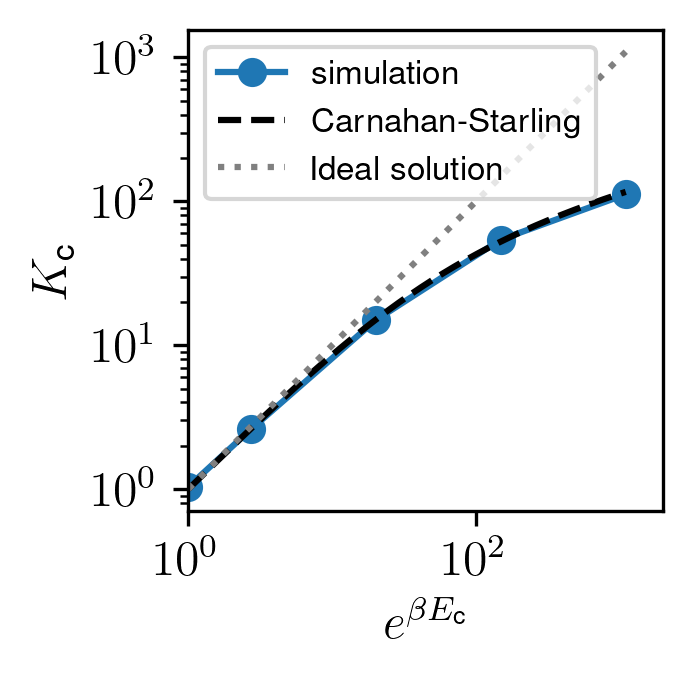
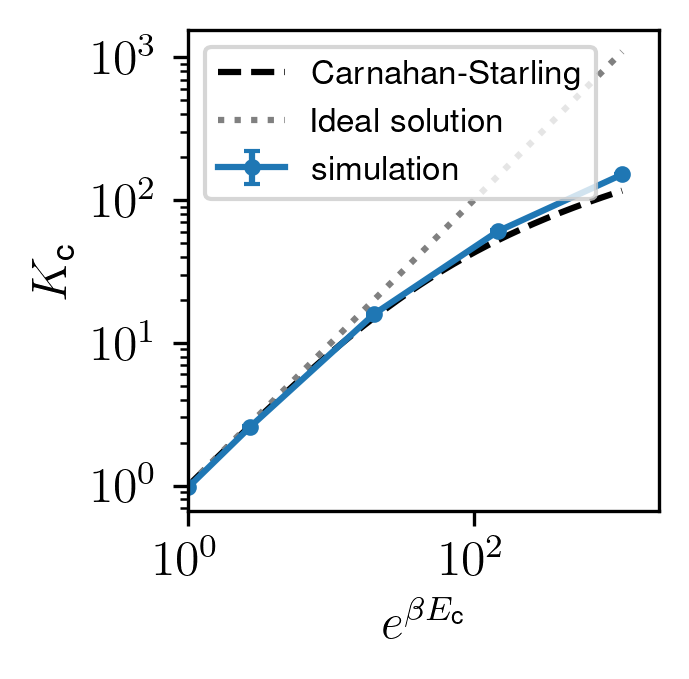
updated scripts

diff --git a/scripts/get_partition_coefficient.py b/scripts/get_partition_coefficient.py
@@ -4,6 +4,7 @@ import matplotlib.pyplot as plt
 import numpy as np
 import sys
 import numpy.linalg as la
+import os
 
 import AnalysisTools.particle_io as pio
 import AnalysisTools.measurement_tools as tools
@@ -11,20 +12,24 @@ import AnalysisTools.measurement_tools as tools
 myfile = sys.argv[1]
 
 fileparts = myfile.split('/')
-outfile = myfile.replace('traj.gsd', 'Kc.txt')
+outfile = myfile.replace('traj.gsd', 'Kc_traj.txt')
+outfileavg = myfile.replace('traj.gsd', 'Kc.txt')
 
 Vr = [e.split('=')[1] for e in fileparts if e.split('=')[0]=='Vr']
 L = [e.split('=')[1] for e in fileparts if e.split('=')[0]=='L']
 N = [e.split('=')[1] for e in fileparts if e.split('=')[0]=='N']
 Ec = [e.split('=')[1] for e in fileparts if e.split('=')[0]=='E_cond']
+seed = [e.split('=')[1] for e in fileparts if e.split('=')[0]=='seed']
 Vr = float(Vr[0])
 L = float(L[0])
 N = int(N[0])
 Ec = float(Ec[0])
+seed = int(seed[0])
 print(L)
 print(Vr)
 print(N)
 print(Ec)
+print(seed)
 
 Vcond = (L**3)*Vr
 Rcond = (Vcond/(4.0*np.pi/3.0))**(1.0/3)
@@ -32,6 +37,9 @@ print(Rcond)
 
 traj = pio.load_traj(myfile)
 pos = traj['pos']
+
+traj_len = pos.shape[0]
+print((traj_len//2))
 
 num_in_condensate = np.zeros(pos.shape[0])
 partition_coefficient = np.zeros(pos.shape[0])
@@ -56,16 +64,28 @@ for t in range(pos.shape[0]):
     #partition_coefficient[t] = (num_in_condensate[t]/Vcond)/((N)/(L**3))
 
 #Save final partition coefficients and concentrations
-rho_bg_avg = np.average(rho_bg[:-500])
-rho_c_avg = np.average(rho_c[:-500])
-partition_coefficient_avg = np.average(partition_coefficient[:-500])
+rho_bg_avg = np.average(rho_bg[-(traj_len//2):])
+rho_c_avg = np.average(rho_c[-(traj_len//2):])
+partition_coefficient_avg = np.average(partition_coefficient[-(traj_len//2):])
+
+print(partition_coefficient_avg)
 with open(outfile, 'w') as f:
     f.write('rho_bg rho_c K_c\n')
-    f.write('%f %f %f' % (rho_bg_avg, rho_c_avg, partition_coefficient_avg))
+    for t in range(pos.shape[0]):
+        f.write('%f %f %f\n' % (rho_bg[t], rho_c[t], partition_coefficient[t]))
+
+with open(outfileavg, 'w') as f:
+    f.write('rho_bg rho_c K_c\n')
+    f.write('%f %f %f\n' % (rho_bg_avg, rho_c_avg, partition_coefficient_avg))
 
 fig = plt.figure()
 plt.plot(np.arange(0,pos.shape[0],1), partition_coefficient)
-plt.axhline(y=np.average(partition_coefficient), color='red')
-plt.savefig('partition_coefficient_vs_time_Ec=%f.png' % Ec)
+plt.axhline(y=partition_coefficient_avg, color='red',label='average')
+if not os.path.isdir('plots/partition_coefficient'):
+    os.path.makedirs('plots/partition_coefficient')
+plt.xlabel('frame')
+plt.ylabel(r'$K_{\text{c}}$')
+plt.legend()
+plt.savefig('plots/partition_coefficient/partition_coefficient_vs_time_N=%d_L=%.01f_Vr=%.03f_Ec=%f_seed=%d.png' % (N, L, Vr, Ec, seed))
 #plt.show()
 

diff --git a/scripts/plot_Kc_vs_Ec.py b/scripts/plot_Kc_vs_Ec.py
@@ -21,23 +21,30 @@ theory_data = np.loadtxt('actual_Kc.dat')
 
 Ecs = [0.0,1.0,3.0,5.0,7.0]
 
-basedir = '$SCRATCH/capsid-assembly/llps/droplet/assembly_trajectories/N=1200/L=144.2/Vr=0.005/short/'
+basedir = '$SCRATCH/capsid-assembly/llps/droplet/assembly_trajectories/N=1200/L=144.2/Vr=0.005/'
 
 Kcs = []
+Kcerrs = []
 
 for Ec in Ecs:
-    myfile = os.path.expandvars(basedir) + 'E_cond=%f/E_bond=0.000000/seed=1/Kc.txt' % Ec
+    myfile = os.path.expandvars(basedir) + 'E_cond=%f/E_bond=0.000000/Kc.txt' % Ec
     with open(myfile, 'r') as f:
-        f.readline() #skip header
+        firstline = f.readline() #skip header
+        nsamples = int((firstline.split('= ')[-1]).split(')')[0])
+        print(nsamples)
         line = f.readline()
+        
 
     elems = line.split(' ')
-    Kc = float(elems[-1])
+    Kc = float(elems[0])
+    Kcstdev = float(elems[1])
     Kcs.append(Kc)
+    Kcerrs.append(Kcstdev/np.sqrt(nsamples))
 
 print(Kcs)
+print(Kcerrs)
 fig = plt.figure()
-plt.plot(np.exp(np.array(Ecs)), np.array(Kcs), marker='o',label='simulation')
+plt.errorbar(np.exp(np.array(Ecs)), np.array(Kcs), yerr=2*np.array(Kcerrs), marker='o',markersize=3,capsize=2,label='simulation')
 #plt.plot(np.exp(np.array(Ecs)),np.exp(np.array(Ecs)), color='black', linestyle='--', label='ideal solution')
 #plt.plot(expEc_arr, rho1c_arr/rho1bg_arr, color='black', linestyle='--', label='Carnahan-Starling')
 plt.plot(theory_data[:,0], theory_data[:,1], color='black', linestyle='--', label='Carnahan-Starling')

diff --git a/scripts/get_avg_partition_coefficient.py b/scripts/get_avg_partition_coefficient.py
@@ -1,0 +1,50 @@
+#Compute average Kc (w/ error bars) vs time
+
+import numpy as np
+import sys
+import os
+import gsd.hoomd
+
+myfolder = sys.argv[1]
+
+
+#Get num subunits from folder name
+#(really should be extracting this info from traj.sizes)
+nsubunits = int(([e for e in myfolder.split('/') if e.startswith('N=')][0]).split('=')[-1])
+#print(nsubunits)
+
+started = 0
+traj_len = 0
+nsamples = 0
+
+avgKc = 0
+stddevKc = 0
+
+for i in range(10):
+
+    if os.path.exists(myfolder + ("seed=%d/Kc.txt" % (i+1))) :
+        nsamples += 1
+        data = np.loadtxt(myfolder + ("seed=%d/Kc.txt" % (i+1)), skiprows=1)
+        myKc = data[-1]
+        myKcSq = data[-1]**2
+
+        avgKc += myKc
+        stddevKc += myKcSq
+
+    #print(nsamples)
+    # elif os.path.exists(myfolder + ("seed=%d/traj.gsd" % (i+1))):
+    #     trajfile = myfolder + ("seed=%d/traj.gsd" % (i+1))
+    #     traj = gsd.hoomd.open(trajfile)
+    #     traj_len = len(traj)
+    #     print(len(traj))
+    #     avgKc = np.zeros(len(traj))
+    #     stddevKc = np.zeros(len(traj))
+
+if nsamples>0:
+    avgKc *= 1.0/nsamples
+    stddevKc *= 1.0/nsamples
+    stddevKc -= avgKc**2
+    stddevKc = np.sqrt(stddevKc)
+
+np.savetxt(myfolder + '/Kc.txt', np.c_[avgKc,stddevKc], header='Avg stddev (No. samples = %d)' % nsamples)
+

diff --git a/scripts/plot_yield_vs_vr.py b/scripts/plot_yield_vs_vr.py
@@ -38,6 +38,7 @@ plt.ylim([0.0,1.0])
 plt.ylabel(r'$f_{\text{c}}$')
 plt.xlabel(r'$V_{\text{r}}$')
 plt.legend(bbox_to_anchor=(0.93,1.6),ncol=2)
+plt.xscale('log')
 if do_near_perfect==1:
     plt.savefig('yield_near_perfect_vs_Vr_vary_Ec_N=%d_Eb=%f_L=%f.png' % (N, Eb, L))
 else:
